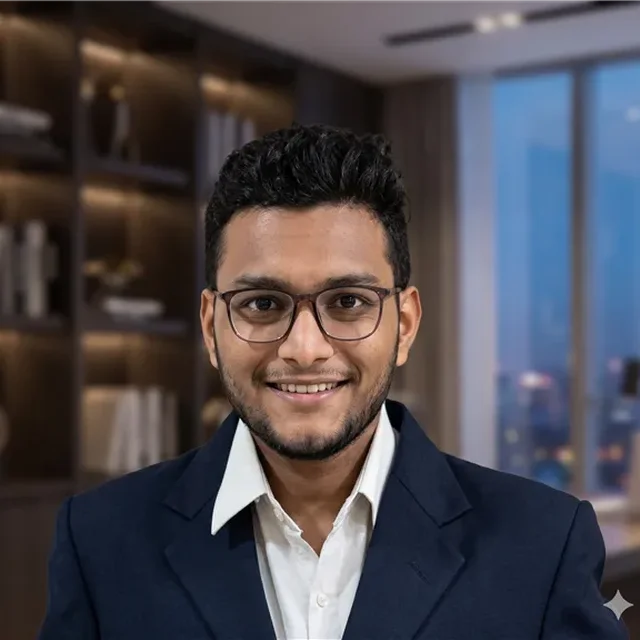
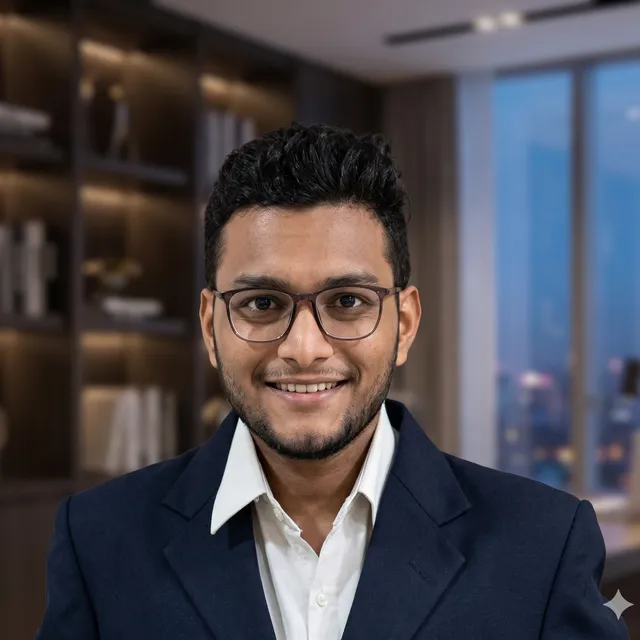
Merge user fixes for hero image export and Audit Assurance aria-label

diff --git a/index.html b/index.html
@@ -23,7 +23,7 @@
 <link rel="manifest" href="manifest.webmanifest">
 <meta name="theme-color" content="#0B1D3A">
 <link rel="apple-touch-icon" href="favicon.png">
-<link rel="preload" as="image" href="headshot.webp?v=2" fetchpriority="high">
+<link rel="preload" as="image" href="headshot.webp?v=3" fetchpriority="high">
 <link rel="preconnect" href="https://fonts.googleapis.com">
 <link rel="preconnect" href="https://fonts.gstatic.com" crossorigin>
 <link rel="preconnect" href="https://cdnjs.cloudflare.com">
@@ -177,7 +177,7 @@ header{background:var(--brand-blue-deep);color:#fff;padding:15px 5%}
     <div class="hero-image" style="position: relative; text-align: center; display:flex; justify-content:center;">
       <div style="position: relative; display: inline-block; padding: 20px;">
         <div style="position: absolute; inset: 0; border: 4px solid var(--brand-blue-deep); border-radius: 50%; border-top-color: var(--brand-saffron); transform: rotate(45deg);"></div>
-        <img fetchpriority="high" src="headshot.webp?v=2" alt="CA Karan Shah" width="640" height="640" style="width: 320px; height: 320px; object-fit: cover; border-radius: 50%; box-shadow: var(--shadow-lg);">
+        <img fetchpriority="high" src="headshot.webp?v=3" alt="CA Karan Shah" width="640" height="640" style="width: 320px; height: 320px; object-fit: cover; border-radius: 50%; box-shadow: var(--shadow-lg);">
       </div>
       <div style="position: absolute; bottom: 30px; right: 0; background: var(--surface); color: var(--brand-blue); padding: 8px 16px; border-radius: 20px; font-weight: 600; font-size: 0.85rem; border: 1.5px solid var(--brand-saffron); box-shadow: var(--shadow-md);">ICAI &bull; IBBI &bull; CFA L3</div>
     </div>
@@ -235,7 +235,7 @@ header{background:var(--brand-blue-deep);color:#fff;padding:15px 5%}
         <div class="card-icon"><i class="fa-solid fa-magnifying-glass-chart"></i></div>
         <h3>Audit & Assurance</h3>
         <p>Statutory audit, internal audit, tax audit & special-purpose audits with actionable compliance insights.</p>
-        <a href="audit-assurance" class="card-link" aria-label="Learn more about Audit Assurance">Learn More <i class="fa-solid fa-arrow-right"></i></a>
+        <a href="audit-assurance" class="card-link" aria-label="Learn more about Audit & Assurance">Learn More <i class="fa-solid fa-arrow-right"></i></a>
       </div>
       <div class="card reveal">
         <div class="card-icon"><i class="fa-solid fa-hand-holding-dollar"></i></div>